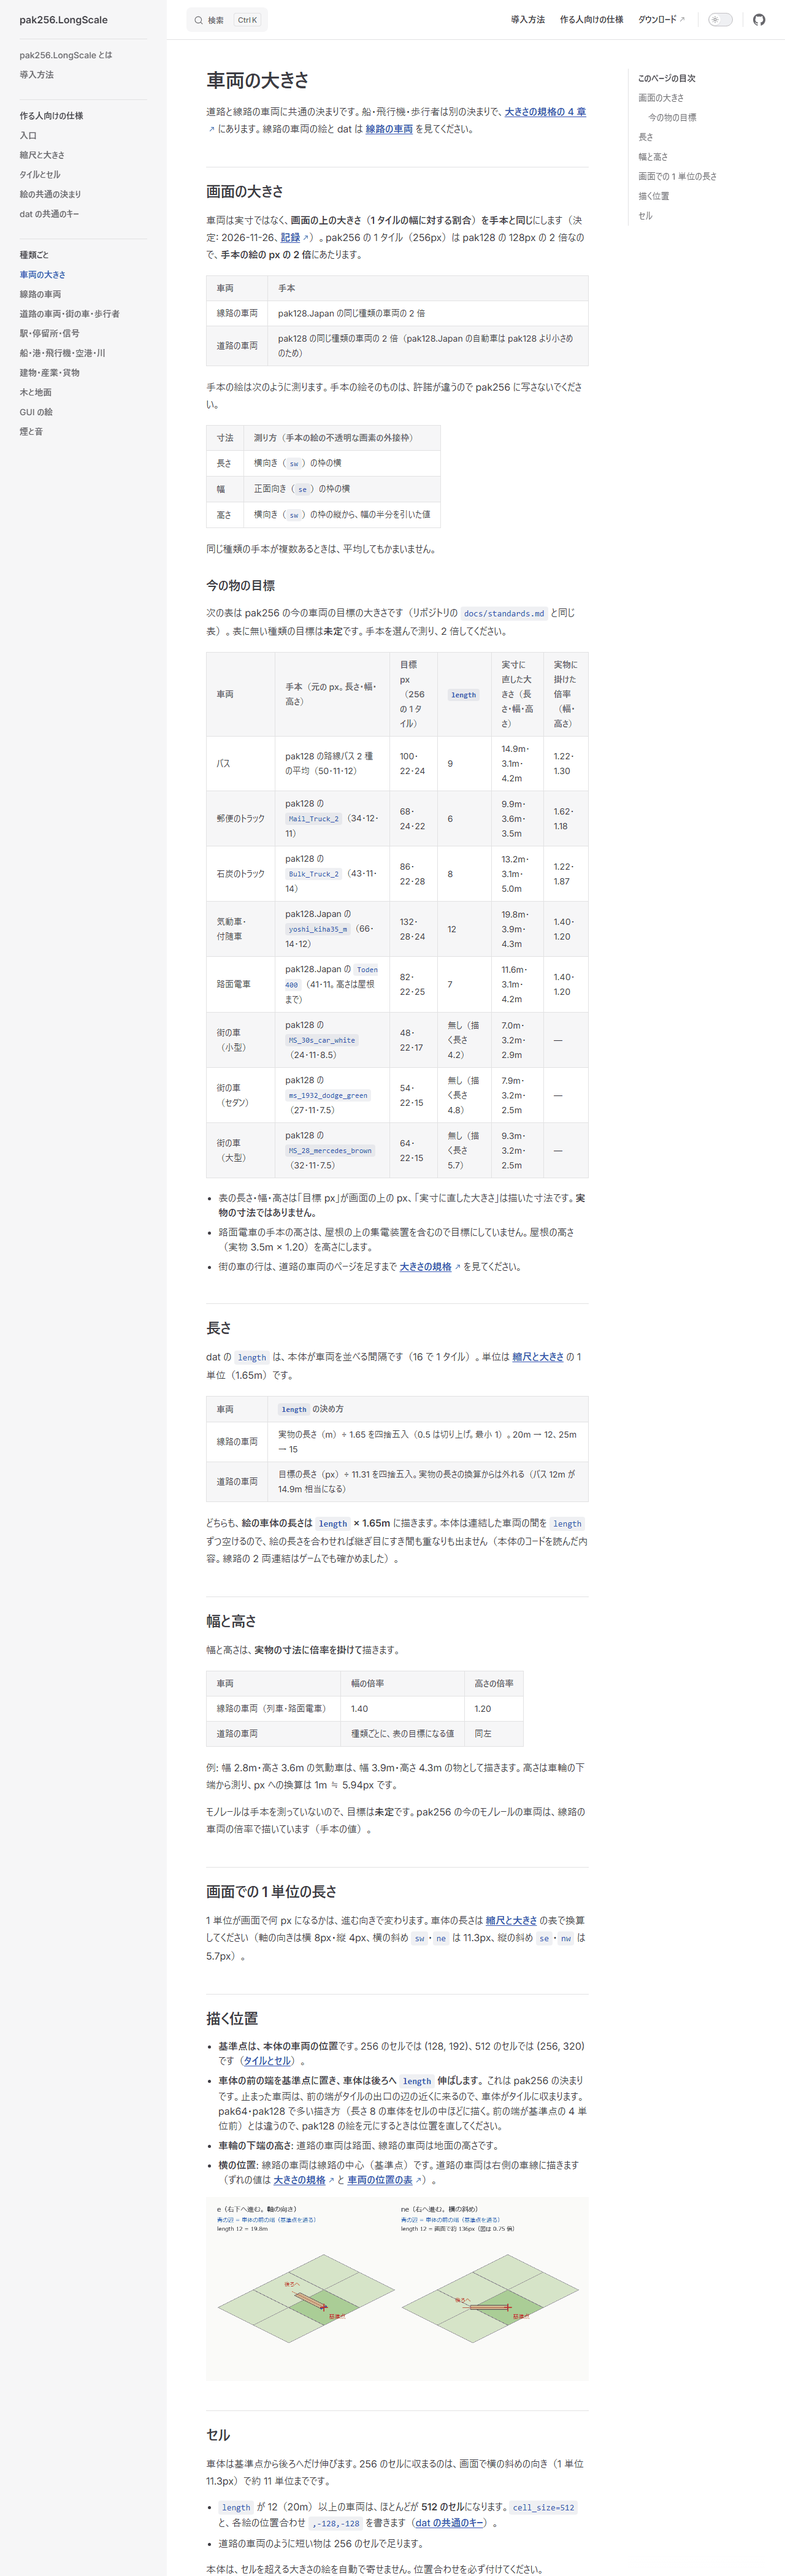
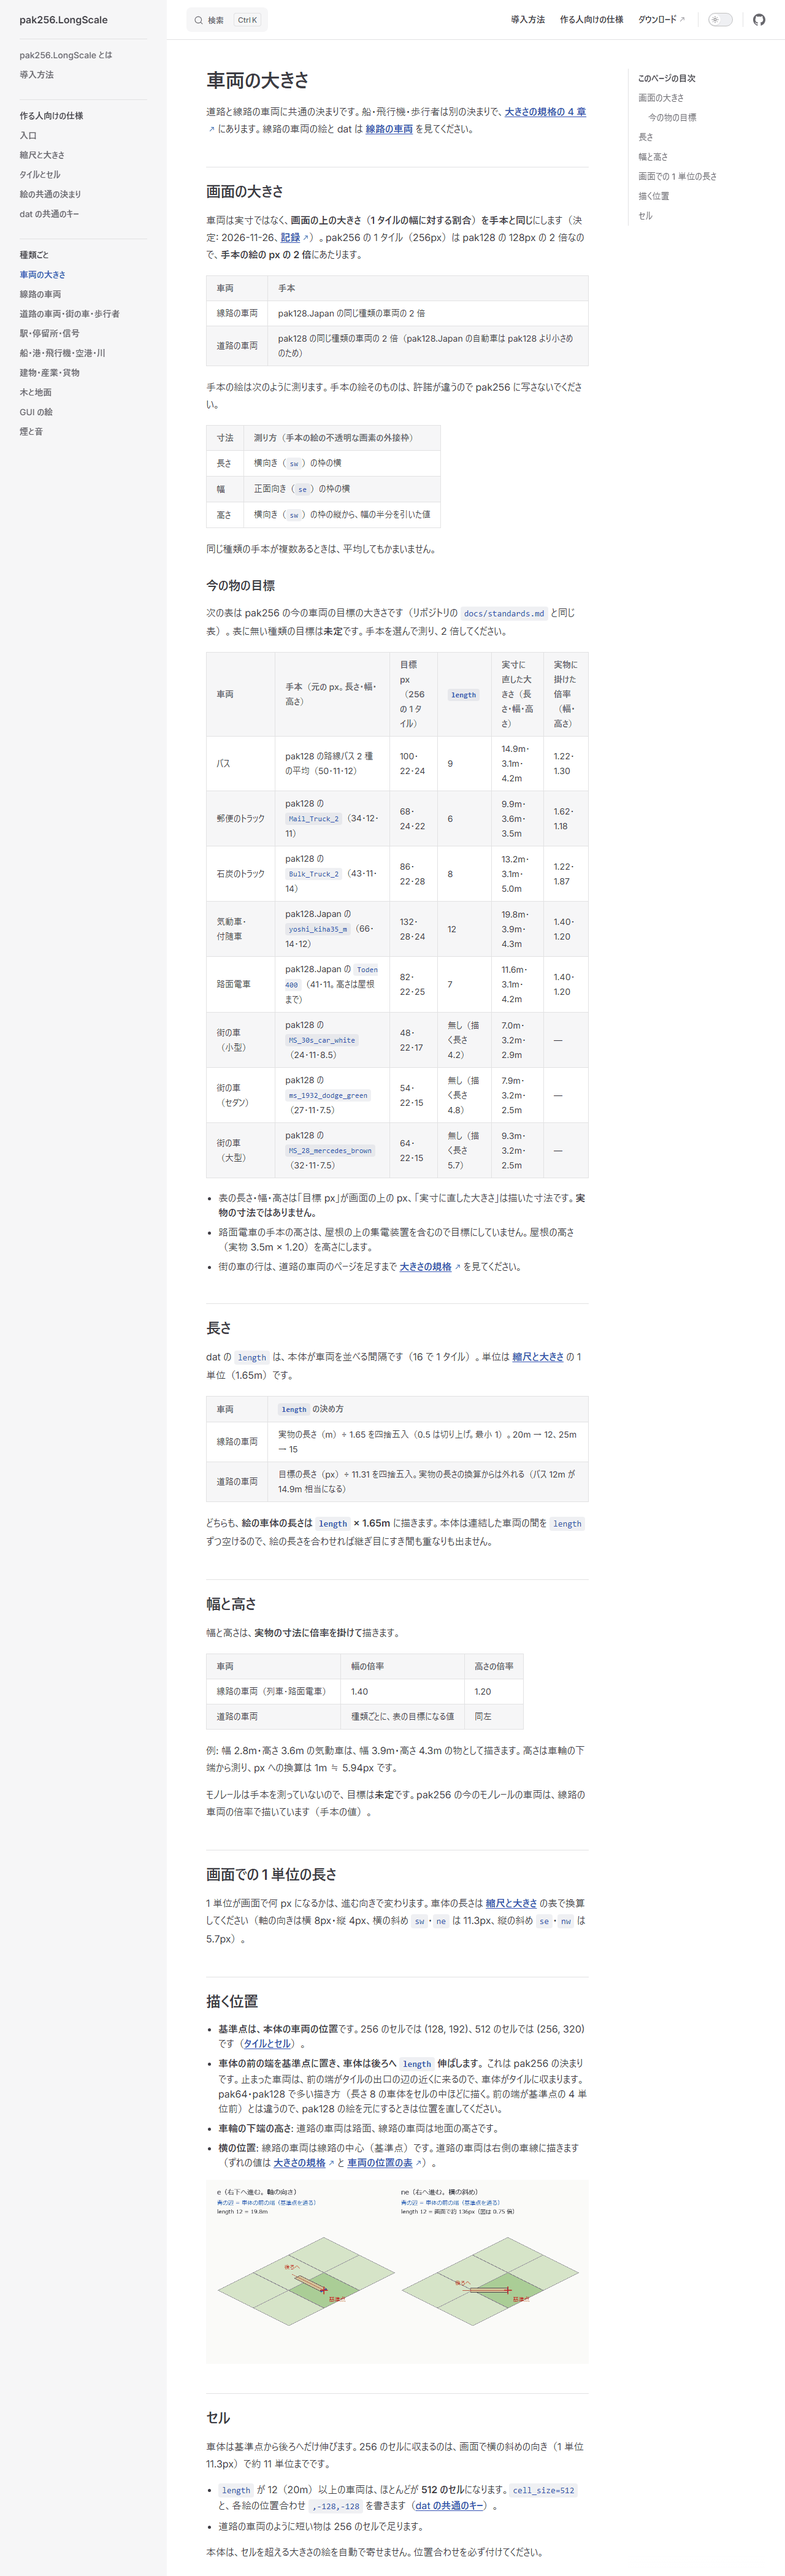
車両のページから根拠の書き添えを外し、根拠は記録に残す (#204)
#214 の書き方（アドオン作者向け、根拠は書かない）にそろえた。

Changed region(s): [[0.25, 0.5926, 0.75, 1.0], [0.625, 0.6238, 0.6562, 0.655]]

diff --git a/site/spec/vehicle-rail.md b/site/spec/vehicle-rail.md
@@ -9,7 +9,7 @@
 | 列車（気動車・電車・客車・貨車） | `track` | 気動車とその付随車 |
 | 路面電車 | `tram_track` | 路面電車 1 種 |
 | モノレール（跨座式） | `monorail_track` | モノレール 1 種 |
-| リニア・狭軌 | `maglev_track`・`narrowgauge_track` | 車両は無い。大きさの目標は**未定**で、ゲームでも確かめていません |
+| リニア・狭軌 | `maglev_track`・`narrowgauge_track` | 車両は無い。大きさの目標は**未定** |
 
 軌道は、pak256 に同梱の AMI（CC BY 4.0、作者 128na）の 256 版を使います。道路や線路は pak256 の物ではないので、幅や高さは AMI の版で変わります。この説明は 2026-11-27 の AMI `ami-256-alpha.9` に合わせています。
 
@@ -27,9 +27,9 @@
 
 ![8 方向の絵のキー。pak256 の仮の気動車。十字は基準点で、車体は基準点から後ろへ伸びる](/spec/vehicle-directions.png)
 
-- 本体は `s`・`w`・`sw`・`se` の 4 方向だけでも読み、北側の向きは `n`←`s`、`e`←`w`、`ne`←`sw`、`nw`←`se` の絵で代えます（本体のコードを読んだ内容）。
-- ただし「前の端を基準点に置く」描き方で 4 方向だけにすると、代えた向きでは車体が基準点より前に出るはずです（描き方からの推論。ゲームでは見ていません）。**8 方向をすべて描いてください。**
-- pak256 の今の車両は前後が同じ形なので、終点で折り返しても形は崩れません。前後で形が違う車両を折り返させた見え方は確かめていません。
+- 本体は `s`・`w`・`sw`・`se` の 4 方向だけでも読み、北側の向きは `n`←`s`、`e`←`w`、`ne`←`sw`、`nw`←`se` の絵で代えます。
+- ただし「前の端を基準点に置く」描き方で 4 方向だけにすると、代えた向きでは車体が基準点より前に出るはずです。**8 方向をすべて描いてください。**
+- pak256 の今の車両は前後が同じ形なので、終点で折り返しても形は崩れません。
 
 ### 層と季節
 
@@ -58,7 +58,7 @@
 | `constraint[prev][N]`・`constraint[next][N]` | 前・後ろにつなげる車両の名前。`none` は「車両が無い」（先頭・末尾になれる） |
 | `smoke`・`sound` | 煙と発車の音（物があるとき） |
 
-添字 `N` は 0 から続けて書きます（makeobj は、抜けた番号の所で読むのをやめます）。`constraint[prev]` を 1 つも書かなければ、どの車両の後ろにもつながり、先頭にもなれます。何か書くと、書いた物だけになります。先頭にさせるには `none` も並べます（`next` も同じ。本体のコードを読んだ内容）。
+添字 `N` は 0 から続けて書きます（makeobj は、抜けた番号の所で読むのをやめます）。`constraint[prev]` を 1 つも書かなければ、どの車両の後ろにもつながり、先頭にもなれます。何か書くと、書いた物だけになります。先頭にさせるには `none` も並べます（`next` も同じ）。
 
 ### 例: 気動車と付随車
 
@@ -138,17 +138,15 @@ emptyimage[ne]=tramcar.0.6
 emptyimage[nw]=tramcar.0.7
 ```
 
-2 つの例は、絵を仮の形にした画像で、makeobj 60.12 で警告なく組めることを確かめました（2026-11-27）。ゲームでは試していません。
-
 ## 本体の動きの注意
 
-- **線路の車両は、左側通行でも線路の中心**に出ます。本体は左側通行のずれを道路の車両にしか足しません（コードを読み、ゲームの左側通行の地図でも確かめました）。
+- **線路の車両は、左側通行でも線路の中心**に出ます。本体は左側通行のずれを道路の車両にしか足しません。
 - **路面電車は線路の車両として扱われます。** `waytype=tram_track` で、道路に敷いた軌道でも道路の中央を走ります。
-- **電化**: 動力のある車両がすべて `engine_type=electric` の編成は、電化した軌道だけを走ります。`electric` とそれ以外の動力車が混じる編成は、電化していない軌道も走れます（コードを読んだ内容）。
+- **電化**: 動力のある車両がすべて `engine_type=electric` の編成は、電化した軌道だけを走ります。`electric` とそれ以外の動力車が混じる編成は、電化していない軌道も走れます。
 - **路面電車の架線**: pak256 の路面電車は `electric` なので、AMI の `ami_tram_catenary` を張った軌道だけを走ります。架線は線路のツールバーの架線に並び、撤去も線路の架線の撤去です。架線が無いと、スクリプトで作った編成は車庫から出ませんでした（車庫の窓で買えるかは見ていません）。
 - **連結の間隔**は、前の車両の `length` です。2 両目以降は前の車両の `length` だけ後ろに並びます。
 - **曲がり**: 車体は 1 枚の絵で、角のタイルでは進む向きの斜めに描かれます。`length=12` の車両は 90° の曲がりで角の外へはみ出して見え、連結の継ぎ目も折れません。**受け入れる決まり**です（決定: 2026-11-25）。`length=7` の路面電車は、道路の舗装の中に収まります。
-- **坂**: 車体は水平のまま走り、坂の変わり目で継ぎ目に段差や隙間が出て、車体がレールから外れて見える瞬間があります。1 タイルで 2 段の坂がいちばん大きく崩れます（ゲームで撮りました。[記録](https://github.com/128-bit-net/pak256/blob/main/docs/records/2026-11-27_standards-8-2.md)）。路面電車の 1 段の坂（東西の向き）では、目立つ沈みや浮きはありません。
+- **坂**: 車体は水平のまま走り、坂の変わり目で継ぎ目に段差や隙間が出て、車体がレールから外れて見える瞬間があります。1 タイルで 2 段の坂がいちばん大きく崩れます。路面電車の 1 段の坂（東西の向き）では、目立つ沈みや浮きはありません。
 - **駅**: 20m の車両 2 両は 24 単位（1.5 タイル）です。駅は 2〜3 タイル並べて置きます。
 
 ![曲がりの角を通る気動車と付随車](/spec/rail-curve.png)
@@ -171,7 +169,9 @@ emptyimage[nw]=tramcar.0.7
 ## 確かめていないこと
 
 - 本家の Simutrans、右側通行。
+- 上の dat の例をゲームで動かすこと。
+- 4 方向だけの絵の車両の見え方と、前後で形が違う車両が終点で折り返した見え方。
 - 画面で縦向きの斜めと、分岐のタイルで斜めになる瞬間の見え方（直線・90° の曲がり・横向きの斜め・分岐・1 段と 2 段の坂は、主に列車で撮りました。[記録](https://github.com/128-bit-net/pak256/blob/main/docs/records/2026-11-27_standards-8-2.md)）。
-- 逆向き運転（OTRP の機能）。前の端を基準点に置く描き方では、`simuconf.tab` に `reverse_base_offset_<向き>` が要る見込みですが、コードを読んだだけです。
+- 逆向き運転（OTRP の機能）。前の端を基準点に置く描き方では、`simuconf.tab` に `reverse_base_offset_<向き>` が要る見込みです。
 - リニア・狭軌の車両と、AMI の懸垂式のモノレール（絵は跨座式用の形なので、合わないはずです）。
 - ツールバーのボタンを押して架線を置く・撤去する操作（置いたのと撤去したのはスクリプト）と、車庫の窓で架線の無い車庫の電車が買えるか。

diff --git a/docs/records/2026-11-27_spec-rail-vehicles.md b/docs/records/2026-11-27_spec-rail-vehicles.md
@@ -1,4 +1,4 @@
-# 作る人向けの仕様: 車両の大きさと線路の車両（#204）
+# アドオン作者向けの仕様: 車両の大きさと線路の車両（#204）
 
 道路と線路の車両に共通の決まりと、線路の車両（列車・路面電車・モノレール）の決まりを、公開のサイト（`site/spec/vehicle-size.md`・`vehicle-rail.md`）へ移した。2026-11-27。構成は [#177 の記録](2026-11-27_spec-common.md)。
 
@@ -17,6 +17,10 @@
 - 路面電車の架線（#189。[記録](2026-11-27_ami189.md)）: 架線は線路のツールバーの架線に並び（本体が `tram_track` の way-object を `track` として扱う）、撤去も線路の架線の撤去。架線が無いと車庫から出ない。道路の区間と車庫だけに張ると、切れる手前の停留所で止まり「運行できる経路がありません」と出る。
 
 ## 本体のコードで確かめた事（OTRP の fork を読んだだけ）
+
+サイトのページには根拠の書き添えを付けない（2026-11-27、ユーザーの指示。#214）。根拠はここに残す。
+
+- 線路の車両の左側通行の位置は、ゲームの左側通行の地図でも確かめた。線路の 2 両連結の継ぎ目もゲームで確かめた。坂の見え方は [記録](2026-11-27_standards-8-2.md)。
 
 - `waytype` の名前: `track`・`tram_track`・`monorail_track`・`maglev_track`・`narrowgauge_track`（`descriptor/writer/get_waytype.cc`）。
 

diff --git a/site/spec/vehicle-size.md b/site/spec/vehicle-size.md
@@ -40,7 +40,7 @@ dat の `length` は、本体が車両を並べる間隔です（16 で 1 タイ
 | 線路の車両 | 実物の長さ（m）÷ 1.65 を四捨五入（0.5 は切り上げ。最小 1）。20m → 12、25m → 15 |
 | 道路の車両 | 目標の長さ（px）÷ 11.31 を四捨五入。実物の長さの換算からは外れる（バス 12m が 14.9m 相当になる） |
 
-どちらも、**絵の車体の長さは `length` × 1.65m** に描きます。本体は連結した車両の間を `length` ずつ空けるので、絵の長さを合わせれば継ぎ目にすき間も重なりも出ません（本体のコードを読んだ内容。線路の 2 両連結はゲームでも確かめました）。
+どちらも、**絵の車体の長さは `length` × 1.65m** に描きます。本体は連結した車両の間を `length` ずつ空けるので、絵の長さを合わせれば継ぎ目にすき間も重なりも出ません。
 
 ## 幅と高さ
 
